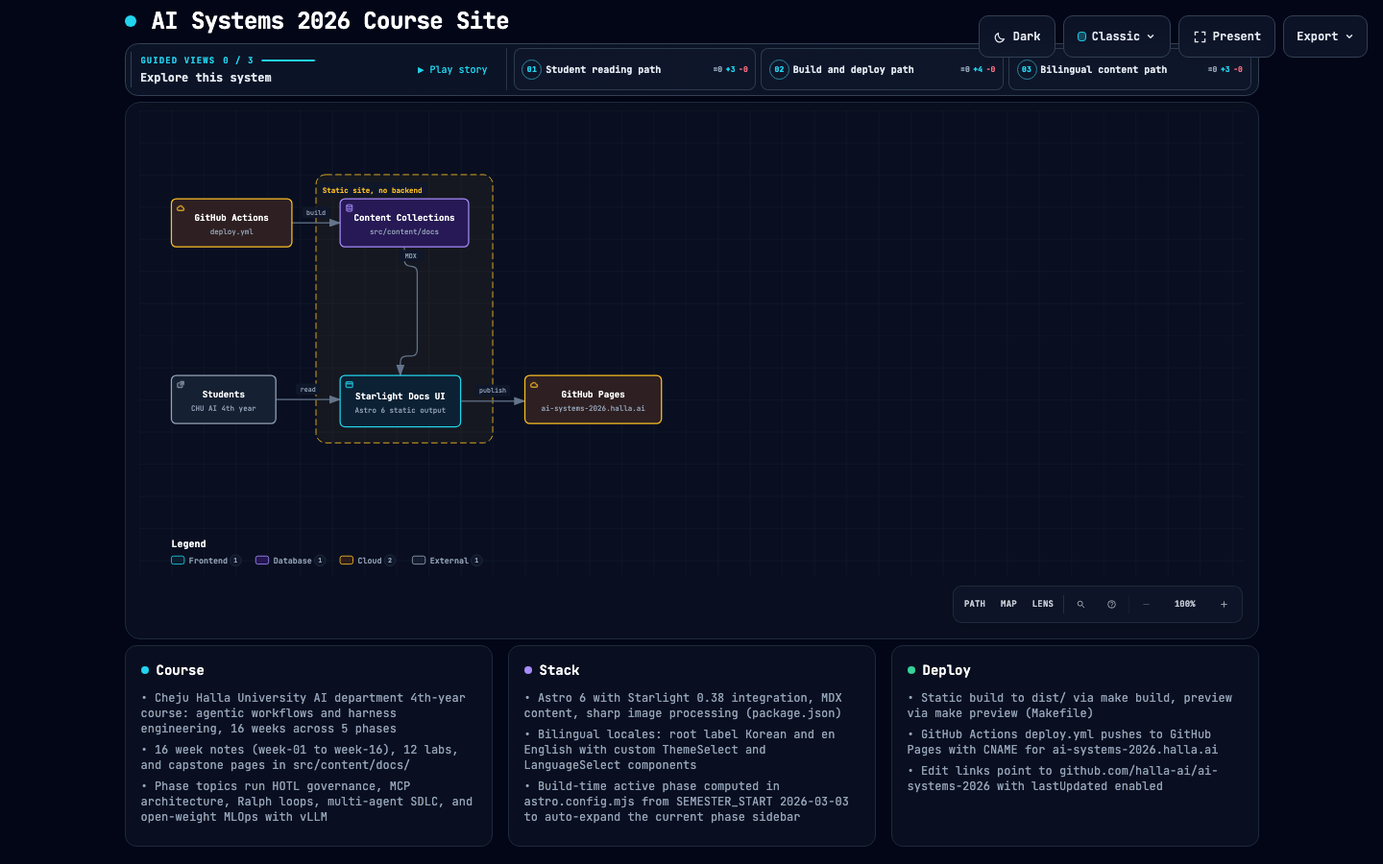
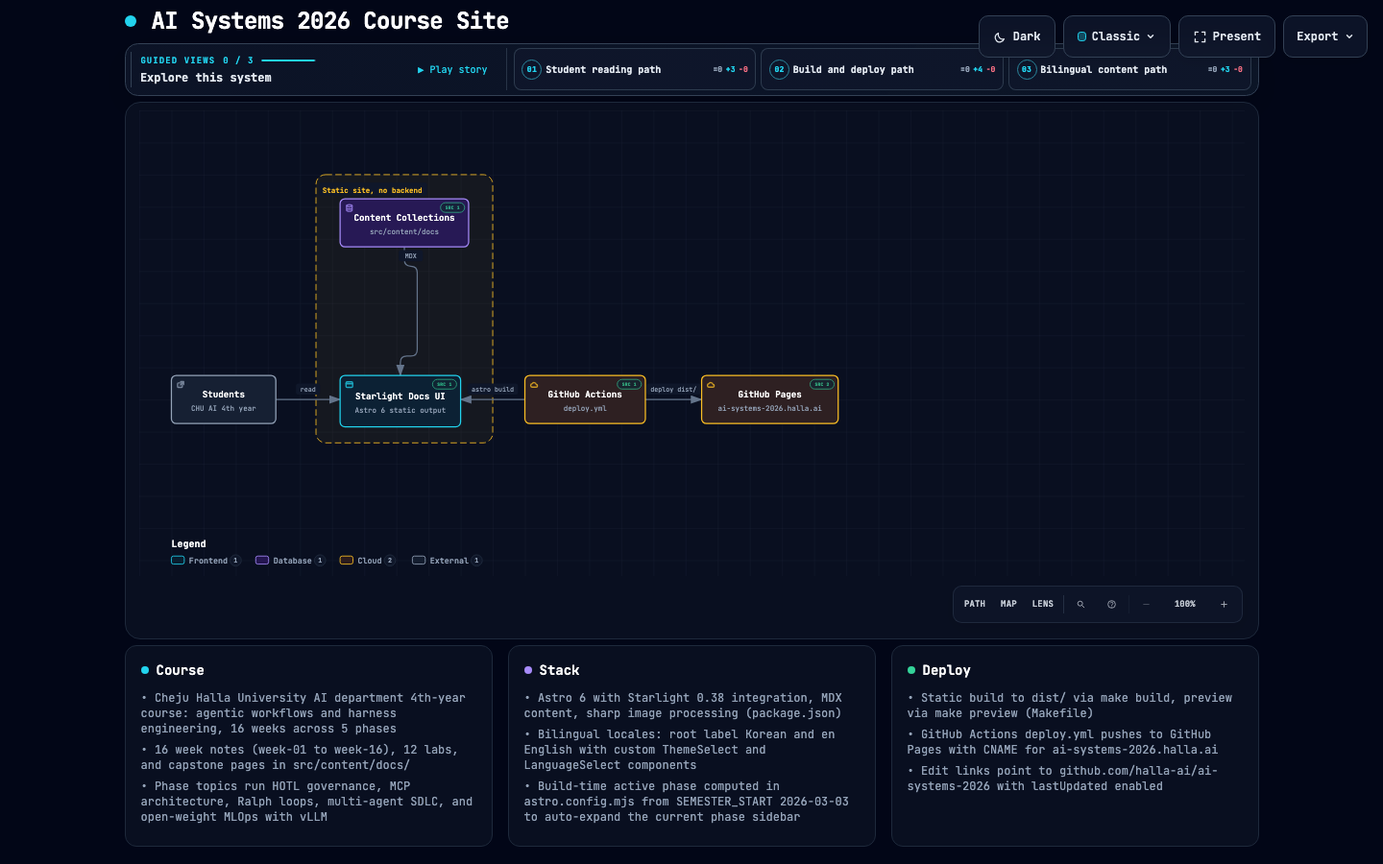
docs(archify): pin the ai-systems-2026 blueprint to origin/main and fix edges
Add meta.repository at the origin/main revision with component source
references, correct the build edges, and link the rendered blueprint
from the README.

- Replace actions -> content "build" and frontend -> pages "publish"
  with actions -> frontend "astro build" and actions -> pages
  "deploy dist/": deploy.yml runs the build and the deploy.

Claude-Session: https://claude.ai/code/session_01Xu6ekcZdfAKRg7zXRYFjqw

diff --git a/docs/ai-systems-2026-rendered.html b/docs/ai-systems-2026-rendered.html
@@ -5086,7 +5086,7 @@ OTHER DEALINGS IN THE FONT SOFTWARE.
     </div>
 
     <script id="archify-guided-views-data" type="application/json">[{"id":"student-path","label":"Student reading path","focus":["student","frontend","content"],"note":"Students browse week notes, labs, and capstone pages rendered from the MDX content collection."},{"id":"build-path","label":"Build and deploy path","focus":["actions","content","frontend","pages"],"note":"GitHub Actions builds the static Astro site and deploys it to GitHub Pages."},{"id":"bilingual-path","label":"Bilingual content path","focus":["content","frontend","student"],"note":"Root Korean and en locale share the Starlight sidebar with dynamic phase expansion."}]</script>
-
+    <script id="archify-source-evidence-data" type="application/json">{"schemaVersion":1,"verified":true,"repository":{"url":"https://github.com/halla-ai/ai-systems-2026","revision":"64d8d18e0f91e7b42d17d5867caed5db7907524c","shortRevision":"64d8d18","label":"halla-ai/ai-systems-2026","href":"https://github.com/halla-ai/ai-systems-2026/tree/64d8d18e0f91e7b42d17d5867caed5db7907524c"},"referenceCount":5,"nodes":{"actions":[{"path":".github/workflows/deploy.yml","line":18,"endLine":51,"label":"build job runs astro build","href":"https://github.com/halla-ai/ai-systems-2026/blob/64d8d18e0f91e7b42d17d5867caed5db7907524c/.github/workflows/deploy.yml#L18-L51"}],"content":[{"path":"src/content.config.ts","line":5,"endLine":23,"label":"Starlight docs collection","href":"https://github.com/halla-ai/ai-systems-2026/blob/64d8d18e0f91e7b42d17d5867caed5db7907524c/src/content.config.ts#L5-L23"}],"frontend":[{"path":"astro.config.mjs","line":16,"label":"starlight() integration","href":"https://github.com/halla-ai/ai-systems-2026/blob/64d8d18e0f91e7b42d17d5867caed5db7907524c/astro.config.mjs#L16"}],"pages":[{"path":".github/workflows/deploy.yml","line":53,"endLine":63,"label":"deploy-pages job","href":"https://github.com/halla-ai/ai-systems-2026/blob/64d8d18e0f91e7b42d17d5867caed5db7907524c/.github/workflows/deploy.yml#L53-L63"},{"path":"public/CNAME","line":1,"label":"custom domain","href":"https://github.com/halla-ai/ai-systems-2026/blob/64d8d18e0f91e7b42d17d5867caed5db7907524c/public/CNAME#L1"}]}}</script>
     <script id="archify-i18n-data" type="application/json">{"locale":"en","messages":{"viewer.kind.frontend":"Frontend","viewer.kind.backend":"Backend","viewer.kind.database":"Database","viewer.kind.cloud":"Cloud","viewer.kind.security":"Security","viewer.kind.messagebus":"Message bus","viewer.kind.external":"External","viewer.kind.neutral":"Neutral","viewer.kind.node":"Node","viewer.kind.start":"Start","viewer.kind.active":"Active","viewer.kind.waiting":"Waiting","viewer.kind.decision":"Decision","viewer.kind.success":"Success","viewer.kind.failure":"Failure","viewer.toolbar.actions":"Diagram actions","viewer.theme.toggle.title":"Toggle theme (T)","viewer.theme.toggle":"Toggle color theme","viewer.theme.dark":"Dark","viewer.theme.light":"Light","viewer.preset.choose.title":"Choose visual style (S cycles)","viewer.preset.choose":"Choose visual style","viewer.preset.style":"Style","viewer.preset.menu":"Visual style","viewer.preset.identity":"Visual identity","viewer.preset.cycles":"S cycles","viewer.preset.classic":"Classic","viewer.preset.classic.short":"Classic","viewer.preset.classic.hint":"Stable technical default","viewer.preset.flow":"Signal Flow","viewer.preset.flow.short":"Flow","viewer.preset.flow.hint":"Motion-forward presentation","viewer.preset.blueprint":"Blueprint","viewer.preset.blueprint.hint":"Engineering review","viewer.preset.editorial":"Editorial","viewer.preset.editorial.hint":"Publication and launch notes","viewer.preset.badge.signalFlow":"SIGNAL FLOW","viewer.preset.badge.blueprint":"BLUEPRINT / REV 01","viewer.preset.badge.editorial":"EDITORIAL / FIELD NOTE","viewer.preset.badge.editorialPlate":"ARCHIFY / PLATE 04","viewer.preset.current":"Visual style: {style}. Choose visual style","viewer.motion.live":"Live","viewer.motion.still":"Still","viewer.motion.pause":"Pause motion","viewer.motion.resume":"Resume motion","viewer.motion.reduced":"Motion paused by reduced-motion preference","viewer.motion.hidden":"Motion paused while this page is hidden","viewer.motion.yielding":"Pause motion; currently yielding to {owner}","viewer.motion.yielding.title":"Live preview enabled · yielding to {owner}","viewer.owner.story":"the guided story","viewer.owner.chapter":"the active chapter","viewer.owner.chapterPreview":"the chapter delta preview","viewer.owner.handoff":"the chapter handoff","viewer.owner.route":"Route Probe","viewer.owner.lens":"Semantic Lens","viewer.owner.relationship":"Relationship Preview","viewer.owner.intent":"Intent Trace","viewer.owner.focus":"semantic focus","viewer.owner.legend":"legend preview","viewer.owner.reader":"reader interaction","viewer.present.enter":"Enter presentation stage","viewer.present.enter.title":"Presentation stage (F)","viewer.present.exit":"Exit presentation stage","viewer.present.exit.title":"Exit presentation stage (F or Escape)","viewer.present.present":"Present","viewer.present.exit.label":"Exit","viewer.export.button":"Export","viewer.export.button.title":"Export diagram (E)","viewer.export.diagram":"Export diagram","viewer.export.menu":"Export","viewer.export.subtitle":"Portable, clean outputs","viewer.export.share":"Share","viewer.export.shareCard":"Share Card","viewer.export.routeShareCard":"Route Share Card","viewer.export.reachShareCard":"Reach Share Card","viewer.export.copyShareCard":"Copy Share Card","viewer.export.copyDiagram":"Copy diagram","viewer.export.clipboardPng":"PNG to clipboard","viewer.export.raster":"Raster images","viewer.export.image":"Image","viewer.export.lossless":"Lossless image","viewer.export.compact":"Compact image","viewer.export.modern":"Modern image","viewer.export.vectorMotion":"Vector and motion","viewer.export.vectorMotion.heading":"Vector \u0026 motion","viewer.export.editable":"Editable vector","viewer.export.motion6s":"6s motion","viewer.export.unsupported":"Not supported by this browser","viewer.export.clipboardUnsupported":"Clipboard image write not supported by this browser","viewer.export.clipboardUnsupported.period":"Clipboard image write not supported by this browser.","viewer.export.clipboardUnsupported.short":"Clipboard image write not supported in this browser.","viewer.export.motionUnavailable":"Motion capture unavailable in this browser","viewer.export.webmUnavailable":"WebM unavailable in this browser","viewer.export.failed":"Export failed: {message}","viewer.export.unknownVariant":"Unknown Share Card variant: {variant}","viewer.export.routeRequired":"Trace a route before exporting a Route Share Card","viewer.export.reachRequired":"Trace authored reach before exporting a Reach Share Card","viewer.export.unknown":"unknown","viewer.export.routeFailed":"Route Share Card export failed: {message}","viewer.export.reachFailed":"Reach Share Card export failed: {message}","viewer.export.copyFailed":"Copy failed: {message}","viewer.export.copiedPng":"Copied PNG to clipboard","viewer.export.copiedShare":"Copied Share Card","viewer.export.downloadedShare":"Downloaded Share Card","viewer.export.downloadedRoute":"Downloaded Route Share Card","viewer.export.downloadedReach":"Downloaded Reach Share Card","viewer.export.downloadedWebm":"Downloaded WebM","viewer.export.recording":"Recording 6 seconds of motion…","viewer.export.card.routeSummary.one":"Route: {source} → {target} · {count} directed hop","viewer.export.card.routeSummary.other":"Route: {source} → {target} · {count} directed hops","viewer.export.card.reachSummary":"Authored {direction} from {origin} · {nodes} · {links} · max {hops}","viewer.export.card.node.one":"{count} node","viewer.export.card.node.other":"{count} nodes","viewer.export.card.link.one":"{count} link","viewer.export.card.link.other":"{count} links","viewer.export.card.hop.one":"{count} hop","viewer.export.card.hop.other":"{count} hops","viewer.export.card.routeBadge":"ARCHIFY · ROUTE · {hops}","viewer.export.card.reachBadge":"ARCHIFY · {direction} REACH","viewer.export.card.defaultBadge":"ARCHIFY · {preset} · {theme}","viewer.export.direction.upstream":"Upstream","viewer.export.direction.downstream":"Downstream","viewer.export.error.canvasUnavailable":"Canvas unavailable for {label}","viewer.export.error.contextUnavailable":"2D canvas context unavailable for {label}","viewer.export.error.toBlobUnavailable":"canvas.toBlob unavailable for {label}","viewer.export.error.toBlobNull":"canvas.toBlob returned no data for {label}","viewer.export.error.variantsCombined":"Share Card variants cannot be combined","viewer.export.error.viewerState":"Share Card export could not remove temporary viewer state","viewer.export.error.routeState":"Route Card export could not preserve the resolved route safely","viewer.export.error.reachState":"Reach Card export could not preserve authored reach safely","viewer.export.error.webmRequirements":"WebM motion export requires a trace animation and browser MediaRecorder support","viewer.export.error.mediaRecorder":"MediaRecorder failed","viewer.export.error.emptyWebm":"MediaRecorder produced an empty WebM","viewer.export.error.webmBackground":"SVG background could not be loaded for WebM export","viewer.guided.region":"Guided diagram views","viewer.guided.previous":"Previous guided view","viewer.guided.previous.title":"Previous guided view ([)","viewer.guided.next":"Next guided view","viewer.guided.next.title":"Next guided view (])","viewer.guided.views":"Guided views","viewer.guided.explore":"Explore this system","viewer.guided.intro":"Step through curated paths without changing the source diagram.","viewer.guided.trail":"Story trail","viewer.guided.beat":"Beat","viewer.guided.nextBeat":"Next","viewer.guided.play":"Play guided story","viewer.guided.play.title":"Play guided story (P)","viewer.guided.pause":"Pause guided story","viewer.guided.pause.title":"Pause guided story (P)","viewer.guided.replay":"Replay guided story","viewer.guided.replay.title":"Replay guided story (P)","viewer.guided.playStory":"Play story","viewer.guided.pauseStory":"Pause","viewer.guided.replayStory":"Replay story","viewer.guided.motionUnavailable":"Story playback unavailable while motion is Still","viewer.guided.enableMotion":"Switch motion to Live to play the guided story","viewer.guided.selectBeatLink":"Select a Story Beat to copy its exact link","viewer.guided.copyMoment":"Copy moment","viewer.guided.momentCopied":"Moment link copied","viewer.guided.momentCopyFailed":"Could not copy story moment link","viewer.guided.copied":"Copied","viewer.guided.copyFailed":"Copy failed","viewer.guided.showAll":"Show all","viewer.guided.showAll.aria":"Show entire diagram","viewer.guided.chapters":"Story chapters","viewer.guided.storyTrail":"Story trail for {label}: {count} beats","viewer.guided.chapter.open":"Open chapter {index} of {total}: {label}, {count} stops","viewer.guided.chapter.current":"Current chapter {index} of {total}: {label}, {count} stops","viewer.guided.chapter.selectedNodes":"{count} selected nodes","viewer.guided.chapter.stops":"{count} stops","viewer.guided.chapter.stop.one":"{count} stop","viewer.guided.chapter.stop.other":"{count} stops","viewer.guided.chapter.current.title":"{label} — current chapter, {count} stops","viewer.guided.chapter.delta.expanded":"{stay} stay, {enter} enter, {leave} leave","viewer.guided.chapter.delta.aria":"Open chapter {index} of {total}: {label}. Chapter focus delta: {delta}","viewer.guided.chapter.delta.title":"{label} — {delta} chapter focus","viewer.guided.handoff":"{from} → {to} · via {label}","viewer.guided.share.chapter":"Chapter {index} / {total}","viewer.guided.share.initial":"Chapter 01 / 01","viewer.guided.share.default":"Guided chapter","viewer.guided.state.ready":"Ready","viewer.guided.state.playing":"Playing","viewer.guided.state.settled":"Settled","viewer.guided.state.paused":"Paused","viewer.guided.state.pinned":"Pinned","viewer.guided.state.still":"Still","viewer.guided.share.step":"Step {index} / {total} · {label}","viewer.guided.share.staticMoment":"{step} · Static moment","viewer.guided.share.complete":"{count} steps complete · {note}","viewer.guided.share.settled":"Path settled for reading.","viewer.guided.share.staticPath":"{count} steps · Static path","viewer.guided.share.ready":"{count} steps · Ready","viewer.guided.share.aria":"{state} chapter {index} of {total}: {label}. {beat}. {route}","viewer.guided.beat.start":"Beat {index} / {total} · {label} · starting point","viewer.guided.beat.forward":"Beat {index} / {total} · {from} → {to}","viewer.guided.beat.reverse":"Beat {index} / {total} · {from} → {to} · reverse authored link","viewer.guided.beat.multiple":"Beat {index} / {total} · {from} ⇄ {to} · {count} authored links","viewer.guided.beat.group":"Beat {index} / {total} · {from} · {to} · grouped · no direct link","viewer.guided.beat.aria.prefix":"Story beat {index} of {total}: {label}. ","viewer.guided.beat.aria.start":"Starting point.","viewer.guided.beat.aria.forward":"From {from} through one authored forward relationship.","viewer.guided.beat.aria.reverse":"From {from}; the authored relationship points from {to} to {from}.","viewer.guided.beat.aria.multiple":"From {from} through {count} authored relationships; shown without arbitrary motion.","viewer.guided.beat.aria.group":"Grouped from {from} with no direct authored relationship.","viewer.guided.caption.start":"Starting point","viewer.guided.caption.grouped":"Grouped transition · no direct authored link","viewer.guided.caption.more":" +{count} more","viewer.guided.caption.reverse":"Reverse authored relationship","viewer.guided.caption.relationships":"{count} authored relationships","viewer.guided.caption.relationship":"Authored relationship","viewer.guided.caption.direction":"authored direction: {from} → {to}","viewer.guided.caption.starting":"Authored starting point","viewer.guided.beatLink":"Copy link to current story moment: Beat {index} of {total}: {label}","viewer.guided.noStory":"This diagram has no authored guided story.","viewer.guide.eyebrow":"Diagram guide","viewer.guide.close":"Close diagram guide","viewer.guide.inspecting":"Inspecting compiled semantics","viewer.guide.actions":"Diagram exploration actions","viewer.guide.find":"Find any node","viewer.guide.find.hint":"Search labels, responsibilities, kinds, and stable IDs.","viewer.guide.route":"Trace a route","viewer.guide.route.aria":"Trace a directed route","viewer.guide.route.hint":"Ask how two semantic nodes connect in authored direction.","viewer.guide.map":"See the whole system","viewer.guide.map.hint":"Open Semantic Radar with a live viewport and stable nodes.","viewer.guide.lens":"Compare semantic kinds","viewer.guide.lens.hint":"Count roles, reveal their traffic, and compare direct authored links.","viewer.guide.story":"Play the guided story","viewer.guide.story.hint":"Walk the authored chapters and real relationships.","viewer.guide.present":"Enter Presentation Stage","viewer.guide.present.hint":"Give the live diagram the viewport without changing export.","viewer.guide.shortcuts":"Additional keyboard shortcuts","viewer.guide.shortcut.export":"Export","viewer.guide.shortcut.theme":"Theme","viewer.guide.shortcut.style":"Style","viewer.guide.shortcut.reset":"Reset","viewer.guide.shortcut.zoomIn":"Zoom in","viewer.guide.shortcut.zoomOut":"Zoom out","viewer.guide.shortcut.close":"Close","viewer.guide.facts":"{nodes} · {relationships} · {views}","viewer.guide.fact.node.one":"{count} semantic node","viewer.guide.fact.node.other":"{count} semantic nodes","viewer.guide.fact.relationship.one":"{count} relationship","viewer.guide.fact.relationship.other":"{count} relationships","viewer.guide.fact.view.one":"{count} guided view","viewer.guide.fact.view.other":"{count} guided views","viewer.guide.story.available.one":"Walk {count} authored chapter and its real relationships.","viewer.guide.story.available.other":"Walk {count} authored chapters and their real relationships.","viewer.guide.story.unavailable":"No authored guided story in this diagram.","viewer.guide.open":"Open diagram guide","viewer.guide.noStory":"This diagram has no authored guided story.","viewer.finder.title":"Find a node","viewer.finder.close":"Close node finder","viewer.finder.placeholder":"Search labels or IDs","viewer.finder.search":"Search diagram nodes","viewer.finder.results":"Diagram nodes","viewer.finder.empty":"No matching nodes","viewer.finder.result.focus":"Focus {label}","viewer.finder.result.routeStart":"Choose {label} as route start","viewer.finder.result.routeTarget":"Choose {label} as route destination, {links}","viewer.finder.status.empty":"No matching nodes","viewer.finder.status.count.one":"{count} matching node","viewer.finder.status.count.other":"{count} matching nodes","viewer.finder.noun.nodes":"nodes","viewer.finder.link.one":"{count} link","viewer.finder.link.other":"{count} links","viewer.finder.result.focus.one":"Focus {label}, {count} related connection","viewer.finder.result.focus.other":"Focus {label}, {count} related connections","viewer.finder.status.filtered":"{visible} of {available} {noun}","viewer.finder.status.all":"{available} {noun}","viewer.passport.eyebrow":"Semantic passport","viewer.passport.metadata":"Node metadata","viewer.passport.evidence":"Verified source evidence","viewer.passport.verified":"Verified source","viewer.passport.verificationScope":"Verified against local Git at the pinned revision. Remote access has not been checked.","viewer.passport.reach":"Authored reach","viewer.passport.reach.trace":"Trace authored reachability","viewer.passport.upstream":"Upstream","viewer.passport.downstream":"Downstream","viewer.passport.upstream.trace":"Trace upstream authored reachability","viewer.passport.downstream.trace":"Trace downstream authored reachability","viewer.passport.close":"Close semantic passport","viewer.passport.copy":"Copy link","viewer.passport.copy.focus":"Copy link to focused node","viewer.passport.relations":"Relations","viewer.passport.relations.show":"Show connected relationships","viewer.passport.relations.hide":"Hide connected relationships","viewer.passport.relations.list":"Connected relationships","viewer.passport.copyRelation":"Copy relation","viewer.passport.copyNode":"Copy node","viewer.passport.copyPinned":"Copy link to pinned relationship","viewer.passport.copySource":"Copy link to source node","viewer.passport.copy.focused.success":"Focused node link copied","viewer.passport.copy.pinned.success":"Pinned relationship link copied","viewer.passport.copy.focused.failed":"Could not copy focused node link","viewer.passport.copy.pinned.failed":"Could not copy pinned relationship link","viewer.passport.relationship.none":"No connected relationships","viewer.passport.relationship.count.one":"{count} relation","viewer.passport.relationship.count.other":"{count} relations","viewer.passport.relationship.show.one":"Show {count} connected relationship","viewer.passport.relationship.show.other":"Show {count} connected relationships","viewer.passport.relationship.summary":"{out} outgoing · {in} incoming{loops}","viewer.passport.relationship.loops":" · {count} loop","viewer.passport.relationship.explorer":"Direct relationship explorer","viewer.passport.relationship.help":"Use arrow keys to explore relationships. Press Enter or Space to pin details; Escape clears.","viewer.passport.relationship.loopsBack":"loops back","viewer.passport.relationship.connectsTo":"connects to","viewer.passport.relationship.connectsFrom":"connects from","viewer.passport.relationship.pinned":"Pinned relationship · {from} → {to} · {label}","viewer.passport.relationship.inspect":"Inspect relationship {index} of {total}: {from} to {to}, {label}. Press Enter for details.","viewer.passport.relationship.group.out":"Outgoing","viewer.passport.relationship.group.in":"Incoming","viewer.passport.relationship.group.loop":"Self loops","viewer.passport.relationship.row":"{group}: {relationship}, {neighbor}","viewer.passport.relationship.direction.out":"OUT →","viewer.passport.relationship.direction.in":"← IN","viewer.passport.relationship.direction.loop":"LOOP","viewer.passport.sourceCount.one":"{count} verified source reference","viewer.passport.sourceCount.other":"{count} verified source references","viewer.passport.sourceMarker":"SRC","viewer.passport.beacon.one":"{count} verified source; focus this node to inspect","viewer.passport.beacon.other":"{count} verified sources; focus this node to inspect","viewer.passport.repository.open":"Open verified repository revision {revision}","viewer.passport.source.open":"Open verified source {path} at revision {revision}","viewer.passport.source.openLink":"Open ↗","viewer.passport.reach.upstream.one":"Trace {count} upstream authored node","viewer.passport.reach.upstream.other":"Trace {count} upstream authored nodes","viewer.passport.reach.downstream.one":"Trace {count} downstream authored node","viewer.passport.reach.downstream.other":"Trace {count} downstream authored nodes","viewer.passport.reach.noUpstream":"No upstream authored nodes","viewer.passport.reach.noDownstream":"No downstream authored nodes","viewer.passport.reach.status":"{direction} · {nodes} nodes · {links} links · max {hops} hops","viewer.route.eyebrow":"Route probe","viewer.route.start":"Choose a start node","viewer.route.start.find":"Find start","viewer.route.start.find.aria":"Find a route start","viewer.route.copy":"Copy link","viewer.route.copy.aria":"Copy link to traced route","viewer.route.clear":"Clear","viewer.route.clear.aria":"Clear route probe","viewer.route.traced":"Traced route","viewer.route.pickTwo":"Pick two semantic nodes on the diagram","viewer.route.pickOne":"Pick a semantic node on the diagram","viewer.route.controls":"Route journey controls","viewer.route.previous":"Previous route position","viewer.route.play":"Play route journey","viewer.route.pause":"Pause route journey","viewer.route.replay":"Replay route journey","viewer.route.next":"Next route position","viewer.route.journey":"Journey","viewer.route.pause.label":"Pause","viewer.route.replay.label":"Replay","viewer.route.overview":"Overview","viewer.route.overview.aria":"Show complete route overview","viewer.route.instructions":"Choose the source, then the destination. Direction matters.","viewer.route.destination":"Choose a destination from {label}","viewer.route.destination.find":"Find target","viewer.route.destination.find.aria":"Find a reachable route destination","viewer.route.differentDestination":"Choose a different destination","viewer.route.distinct":"A route needs two distinct semantic nodes.","viewer.route.unreachable":"No directed route to {label}","viewer.route.unreachable.detail":"{target} is not reachable from {source}. Pick a highlighted destination.","viewer.route.start.instructions":"Select the source. The next step will reveal only directed destinations.","viewer.route.copy.success":"Traced route link copied","viewer.route.copy.failed":"Could not copy traced route link","viewer.route.position":"Route position {index} of {total}: {label}","viewer.route.step":"Step {index} of {total} · {phase} · {label}","viewer.route.motionRequired":"Automatic journey requires Live motion","viewer.route.trigger.clear":"Clear traced route","viewer.route.overview.status":"{nodes} · {hops} · shortest authored route","viewer.route.overview.node.one":"{count} node","viewer.route.overview.node.other":"{count} nodes","viewer.route.overview.hop.one":"{count} directed hop","viewer.route.overview.hop.other":"{count} directed hops","viewer.route.phase.playing":"Playing","viewer.route.phase.complete":"Complete","viewer.route.phase.inspecting":"Inspecting","viewer.route.destination.count.one":"{count} directed destination available. Pick a highlighted node.","viewer.route.destination.count.other":"{count} directed destinations available. Pick a highlighted node.","viewer.route.noOutgoing":"No outgoing route starts here. Clear and choose another source.","viewer.route.result.title":"{source} to {target}","viewer.route.finder.source.title":"Choose route start","viewer.route.finder.source.placeholder":"Search route sources","viewer.route.finder.source.empty":"No matching route sources","viewer.route.finder.source.results":"Nodes that can start a route","viewer.route.finder.source.noun":"route sources","viewer.route.finder.source.badge":"start","viewer.route.finder.target.title":"Destination from {label}","viewer.route.finder.target.placeholder":"Search reachable destinations","viewer.route.finder.target.empty":"No matching reachable destinations","viewer.route.finder.target.results":"Reachable route destinations","viewer.route.finder.target.noun":"reachable destinations","viewer.route.hop.one":"{count} hop","viewer.route.hop.other":"{count} hops","viewer.lens.eyebrow":"Semantic lens","viewer.lens.title":"Compare system roles","viewer.lens.close":"Close semantic lens","viewer.lens.instruction":"Choose up to two semantic kinds. One reveals its real traffic; two compare only direct authored relationships.","viewer.lens.kinds":"Semantic kinds","viewer.lens.choose":"Choose a kind to inspect its nodes and touching relationships.","viewer.lens.copy":"Copy link to semantic lens","viewer.lens.clear":"Clear semantic lens","viewer.lens.open":"Open semantic lens","viewer.lens.openActive":"Open active semantic lens","viewer.lens.legend":"Semantic legend","viewer.lens.legend.inspect.one":"Inspect {label}, {count} node","viewer.lens.legend.inspect.other":"Inspect {label}, {count} nodes","viewer.lens.kind.count.one":"{label}, {count} node","viewer.lens.kind.count.other":"{label}, {count} nodes","viewer.lens.compare.one":"{first} → {second}: {forward} · {second} → {first}: {reverse} · {count} direct relationship","viewer.lens.compare.other":"{first} → {second}: {forward} · {second} → {first}: {reverse} · {count} direct relationships","viewer.lens.single":"{nodes} · {relationships} · connected peers remain visible","viewer.lens.node.one":"{count} {label} node","viewer.lens.node.other":"{count} {label} nodes","viewer.lens.relationship.one":"{count} touching relationship","viewer.lens.relationship.other":"{count} touching relationships","viewer.radar.title":"Semantic radar","viewer.radar.building":"Building overview","viewer.radar.openFull":"Open full semantic radar","viewer.radar.open":"Open radar","viewer.radar.close":"Close semantic radar","viewer.radar.surface":"Diagram overview. Click a node to focus it, or use arrow keys to pan.","viewer.radar.click":"Click node","viewer.radar.drag":"Drag to pan","viewer.radar.space":"Semantic radar needs more MAP space.","viewer.radar.nodes":"Semantic diagram radar nodes","viewer.radar.focus":"Focus {label} from Semantic Radar","viewer.radar.status":"{count} nodes · {viewport}","viewer.radar.fullMap":"{count} nodes · full map","viewer.radar.compacted":"Radar compacted to avoid covering the Semantic Passport or MAP controls.","viewer.radar.cancelWaiting":"Cancel semantic radar waiting for more MAP space","viewer.radar.needsSpace":"Semantic radar needs more visible MAP space","viewer.radar.viewport.full":"full map","viewer.radar.viewport.width":"{percent}% width","viewer.radar.viewport.scale":"{percent}% viewport","viewer.nav.controls":"Diagram view controls","viewer.nav.route":"Trace a directed route","viewer.nav.route.title":"Trace route (R)","viewer.nav.route.short":"PATH","viewer.nav.radar":"Open semantic radar","viewer.nav.radar.title":"Semantic radar (M)","viewer.nav.radar.short":"MAP","viewer.nav.lens":"Open semantic lens","viewer.nav.lens.title":"Semantic lens (L)","viewer.nav.lens.short":"LENS","viewer.nav.find":"Find a node","viewer.nav.find.title":"Find a node (/)","viewer.nav.guide":"Open diagram guide","viewer.nav.guide.title":"Diagram guide (?)","viewer.nav.zoomOut":"Zoom out","viewer.nav.zoomOut.title":"Zoom out (-)","viewer.nav.reset":"Reset diagram view","viewer.nav.reset.title":"Reset view (0)","viewer.nav.read":"READ","viewer.nav.zoomIn":"Zoom in","viewer.nav.zoomIn.title":"Zoom in (+)","viewer.nav.camera":"{hint}. Reset diagram view","viewer.nav.camera.title":"{semantic}{hint} · reset view (0)","viewer.nav.camera.semantic":"Semantic camera active · ","viewer.nav.level.map":"MAP","viewer.nav.level.read":"READ","viewer.nav.level.full":"FULL","viewer.nav.level.auto":"AUTO","viewer.nav.detail.map":"Zoom in to reveal relationship labels and node context","viewer.nav.detail.read":"Zoom in again to reveal tags and annotations","viewer.nav.detail.full":"Full diagram detail","viewer.intent.summary":"{label}. {out} outgoing, {in} incoming{loops}. {total} connections. Press Enter for details.","viewer.intent.loops":", {count} self loop","viewer.common.copied":"Copied","viewer.common.copyFailed":"Copy failed","viewer.common.copyLink":"Copy link","viewer.common.clear":"Clear","viewer.common.close":"Close"}}</script>
     <div class="guided-views no-print" id="guided-views" hidden aria-label="Guided diagram views">
       <button id="guided-view-prev" type="button" aria-label="Previous guided view" title="Previous guided view ([)">&#8592;</button>
@@ -5159,22 +5159,22 @@ OTHER DEALINGS IN THE FONT SOFTWARE.
         <rect data-graph-role="structural-frame" data-composition-frame-kind="region" data-composition-frame-id="0" data-composition-frame-label="Static site, no backend" x="220" y="80" width="220" height="334" rx="12" class="c-region" stroke-width="1"/>
 
         <!-- Connection paths (before components for correct z-order) -->
-        <path data-edge-from="actions" data-edge-to="content" data-edge-label="build" data-edge-key="0" data-edge-id="actions-to-content" data-composition-points="190,140;250,140" d="M 190 140 L 250 140" class="a-default" stroke-width="1.5" marker-end="url(#arrowhead)"/>
+        <path data-edge-from="actions" data-edge-to="frontend" data-edge-label="astro build" data-edge-key="0" data-edge-id="actions-to-frontend" data-composition-points="480,360;400,360" d="M 480 360 L 400 360" class="a-default" stroke-width="1.5" marker-end="url(#arrowhead)"/>
         <path data-edge-from="content" data-edge-to="frontend" data-edge-label="MDX" data-edge-key="1" data-edge-id="content-to-frontend" data-composition-points="330,170;330,194;346,194;346,306;325,306;325,330" d="M 330 170 L 330 186 Q 330 194 338 194 L 338 194 Q 346 194 346 202 L 346 298 Q 346 306 338 306 L 333 306 Q 325 306 325 314 L 325 330" class="a-default" stroke-width="1.5" marker-end="url(#arrowhead)"/>
         <path data-edge-from="student" data-edge-to="frontend" data-edge-label="read" data-edge-key="2" data-edge-id="student-to-frontend" data-composition-points="170,360;250,360" d="M 170 360 L 250 360" class="a-default" stroke-width="1.5" marker-end="url(#arrowhead)"/>
-        <path data-edge-from="frontend" data-edge-to="pages" data-edge-label="publish" data-edge-key="3" data-edge-id="frontend-to-pages" data-composition-points="400,362;480,362" d="M 400 362 L 480 362" class="a-default" stroke-width="1.5" marker-end="url(#arrowhead)"/>
+        <path data-edge-from="actions" data-edge-to="pages" data-edge-label="deploy dist/" data-edge-key="3" data-edge-id="actions-to-pages" data-composition-points="630,360;700,360" d="M 630 360 L 700 360" class="a-default" stroke-width="1.5" marker-end="url(#arrowhead)"/>
 
         <!-- Components -->
         <g id="node-actions" data-node-id="actions" data-node-label="GitHub Actions" tabindex="0" role="button" aria-label="Focus GitHub Actions, deploy.yml, Architecture component" aria-pressed="false" data-node-kind="cloud" data-node-sublabel="deploy.yml" data-node-tag="push on main" data-node-context="Architecture component">
           <title>GitHub Actions · deploy.yml · Architecture component · push on main</title>
-          <rect x="40" y="110" width="150" height="60" rx="6" class="c-mask"/>
-          <rect x="40" y="110" width="150" height="60" rx="6" class="c-cloud" stroke-width="1.5"/>
-          <g aria-hidden="true" data-semantic-sigil="cloud" class="semantic-sigil s-cloud" transform="translate(46 116) scale(0.6875)">
+          <rect x="480" y="330" width="150" height="60" rx="6" class="c-mask"/>
+          <rect x="480" y="330" width="150" height="60" rx="6" class="c-cloud" stroke-width="1.5"/>
+          <g aria-hidden="true" data-semantic-sigil="cloud" class="semantic-sigil s-cloud" transform="translate(486 336) scale(0.6875)">
             <path d="M4.3 12.5h7.3a2.4 2.4 0 0 0 .2-4.8 4 4 0 0 0-7.5-1.3A3.1 3.1 0 0 0 4.3 12.5Z"/>
           </g>
-          <text data-node-label="" data-detail-anchor="" x="115" y="138" class="t-primary" font-size="11" font-weight="600" text-anchor="middle">GitHub Actions</text>
-        <text data-detail="context" x="115" y="154" class="t-muted" font-size="9" text-anchor="middle">deploy.yml</text>
-        <text data-detail="fine" x="115" y="162" class="t-cloud" font-size="7" text-anchor="middle">push on main</text>
+          <text data-node-label="" data-detail-anchor="" x="555" y="358" class="t-primary" font-size="11" font-weight="600" text-anchor="middle">GitHub Actions</text>
+        <text data-detail="context" x="555" y="374" class="t-muted" font-size="9" text-anchor="middle">deploy.yml</text>
+        <text data-detail="fine" x="555" y="382" class="t-cloud" font-size="7" text-anchor="middle">push on main</text>
         </g>
 
         <g id="node-content" data-node-id="content" data-node-label="Content Collections" tabindex="0" role="button" aria-label="Focus Content Collections, src/content/docs, Static site, no backend" aria-pressed="false" data-node-kind="database" data-node-sublabel="src/content/docs" data-node-tag="16 weeks + 12 labs" data-node-context="Static site, no backend">
@@ -5219,20 +5219,20 @@ OTHER DEALINGS IN THE FONT SOFTWARE.
 
         <g id="node-pages" data-node-id="pages" data-node-label="GitHub Pages" tabindex="0" role="button" aria-label="Focus GitHub Pages, ai-systems-2026.halla.ai, Architecture component" aria-pressed="false" data-node-kind="cloud" data-node-sublabel="ai-systems-2026.halla.ai" data-node-tag="CNAME" data-node-context="Architecture component">
           <title>GitHub Pages · ai-systems-2026.halla.ai · Architecture component · CNAME</title>
-          <rect x="480" y="330" width="170" height="60" rx="6" class="c-mask"/>
-          <rect x="480" y="330" width="170" height="60" rx="6" class="c-cloud" stroke-width="1.5"/>
-          <g aria-hidden="true" data-semantic-sigil="cloud" class="semantic-sigil s-cloud" transform="translate(486 336) scale(0.6875)">
+          <rect x="700" y="330" width="170" height="60" rx="6" class="c-mask"/>
+          <rect x="700" y="330" width="170" height="60" rx="6" class="c-cloud" stroke-width="1.5"/>
+          <g aria-hidden="true" data-semantic-sigil="cloud" class="semantic-sigil s-cloud" transform="translate(706 336) scale(0.6875)">
             <path d="M4.3 12.5h7.3a2.4 2.4 0 0 0 .2-4.8 4 4 0 0 0-7.5-1.3A3.1 3.1 0 0 0 4.3 12.5Z"/>
           </g>
-          <text data-node-label="" data-detail-anchor="" x="565" y="358" class="t-primary" font-size="11" font-weight="600" text-anchor="middle">GitHub Pages</text>
-        <text data-detail="context" x="565" y="374" class="t-muted" font-size="9" text-anchor="middle">ai-systems-2026.halla.ai</text>
-        <text data-detail="fine" x="565" y="382" class="t-cloud" font-size="7" text-anchor="middle">CNAME</text>
+          <text data-node-label="" data-detail-anchor="" x="785" y="358" class="t-primary" font-size="11" font-weight="600" text-anchor="middle">GitHub Pages</text>
+        <text data-detail="context" x="785" y="374" class="t-muted" font-size="9" text-anchor="middle">ai-systems-2026.halla.ai</text>
+        <text data-detail="fine" x="785" y="382" class="t-cloud" font-size="7" text-anchor="middle">CNAME</text>
         </g>
 
         <!-- Connection labels -->
-        <g data-detail="context" data-edge-from="actions" data-edge-to="content" data-edge-label="build" data-edge-key="0" data-edge-id="actions-to-content">
-          <rect x="203" y="120" width="34" height="14" rx="3" class="c-mask"/>
-          <text x="220" y="130" class="t-muted" font-size="8" text-anchor="middle">build</text>
+        <g data-detail="context" data-edge-from="actions" data-edge-to="frontend" data-edge-label="astro build" data-edge-key="0" data-edge-id="actions-to-frontend">
+          <rect x="408.6" y="340" width="62.8" height="14" rx="3" class="c-mask"/>
+          <text x="440" y="350" class="t-muted" font-size="8" text-anchor="middle">astro build</text>
         </g>
         <g data-detail="context" data-edge-from="content" data-edge-to="frontend" data-edge-label="MDX" data-edge-key="1" data-edge-id="content-to-frontend">
           <rect x="323" y="174" width="30" height="14" rx="3" class="c-mask"/>
@@ -5242,9 +5242,9 @@ OTHER DEALINGS IN THE FONT SOFTWARE.
           <rect x="195" y="340" width="30" height="14" rx="3" class="c-mask"/>
           <text x="210" y="350" class="t-muted" font-size="8" text-anchor="middle">read</text>
         </g>
-        <g data-detail="context" data-edge-from="frontend" data-edge-to="pages" data-edge-label="publish" data-edge-key="3" data-edge-id="frontend-to-pages">
-          <rect x="418.2" y="342" width="43.6" height="14" rx="3" class="c-mask"/>
-          <text x="440" y="352" class="t-muted" font-size="8" text-anchor="middle">publish</text>
+        <g data-detail="context" data-edge-from="actions" data-edge-to="pages" data-edge-label="deploy dist/" data-edge-key="3" data-edge-id="actions-to-pages">
+          <rect x="631.2" y="340" width="67.6" height="14" rx="3" class="c-mask"/>
+          <text x="665" y="350" class="t-muted" font-size="8" text-anchor="middle">deploy dist/</text>
         </g>
 
         <!-- Boundary labels (foreground masks keep routes out of titles) -->

diff --git a/README.md b/README.md
@@ -62,6 +62,8 @@ src/content/docs/
 └── contribute/        # 기여 가이드
 ```
 
+Interactive blueprint: [docs/ai-systems-2026-rendered.html](docs/ai-systems-2026-rendered.html) (spec: [ai-systems-2026.architecture.json](docs/ai-systems-2026.architecture.json)).
+
 ---
 
 ## 과제 제출
